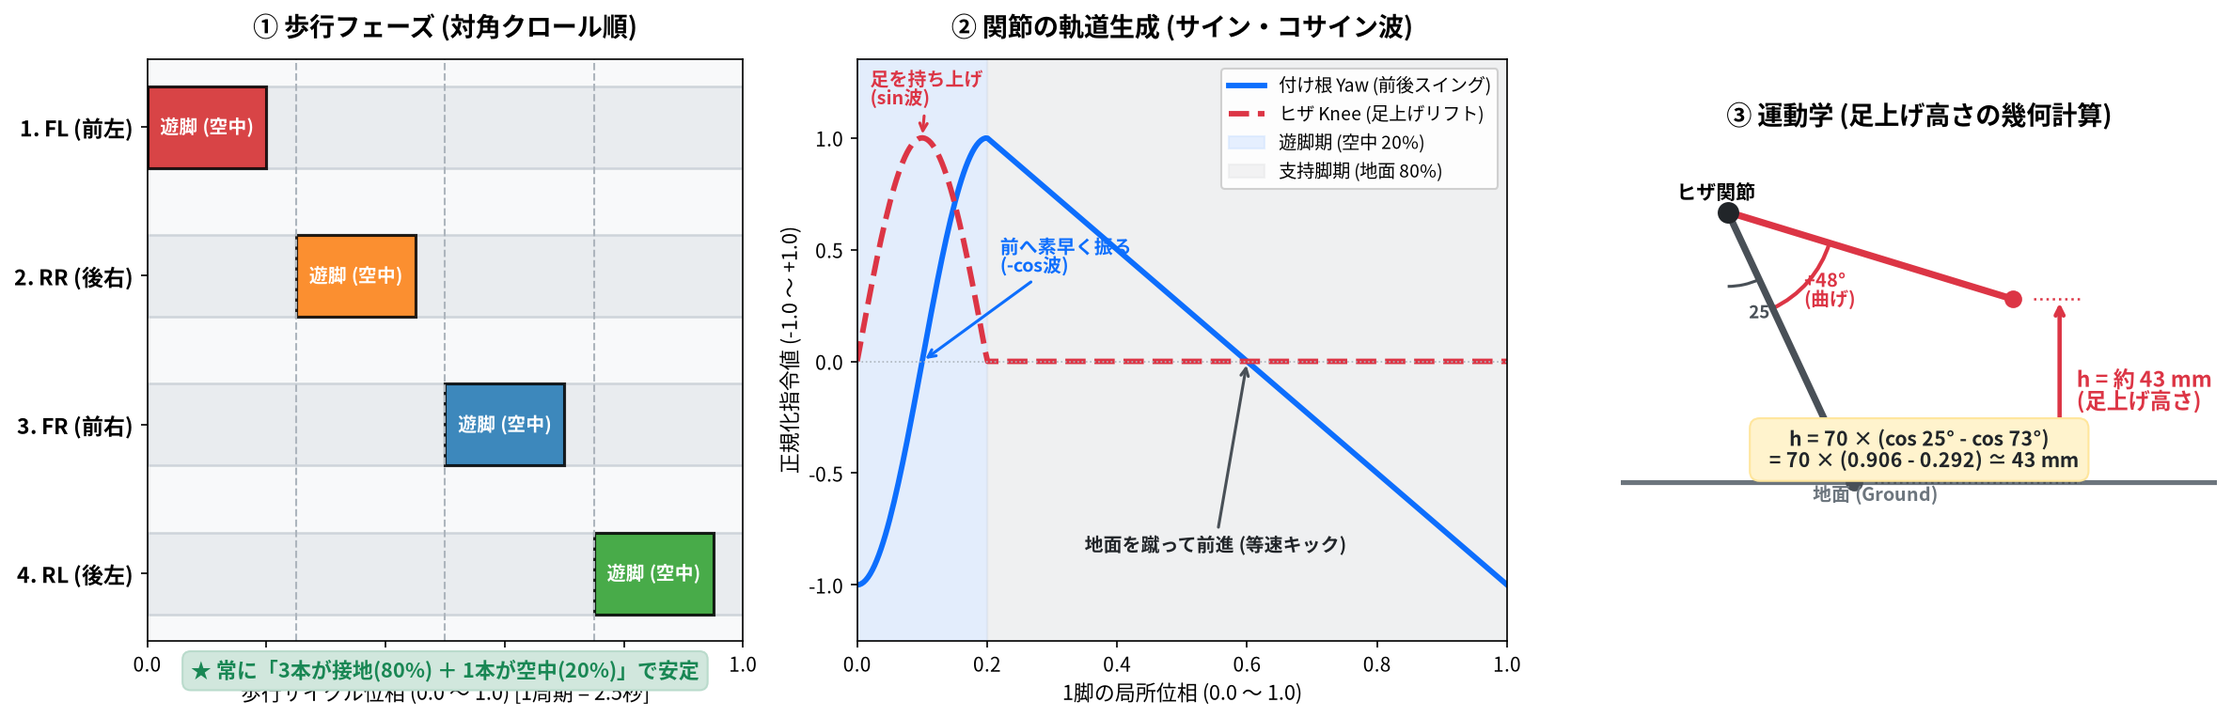
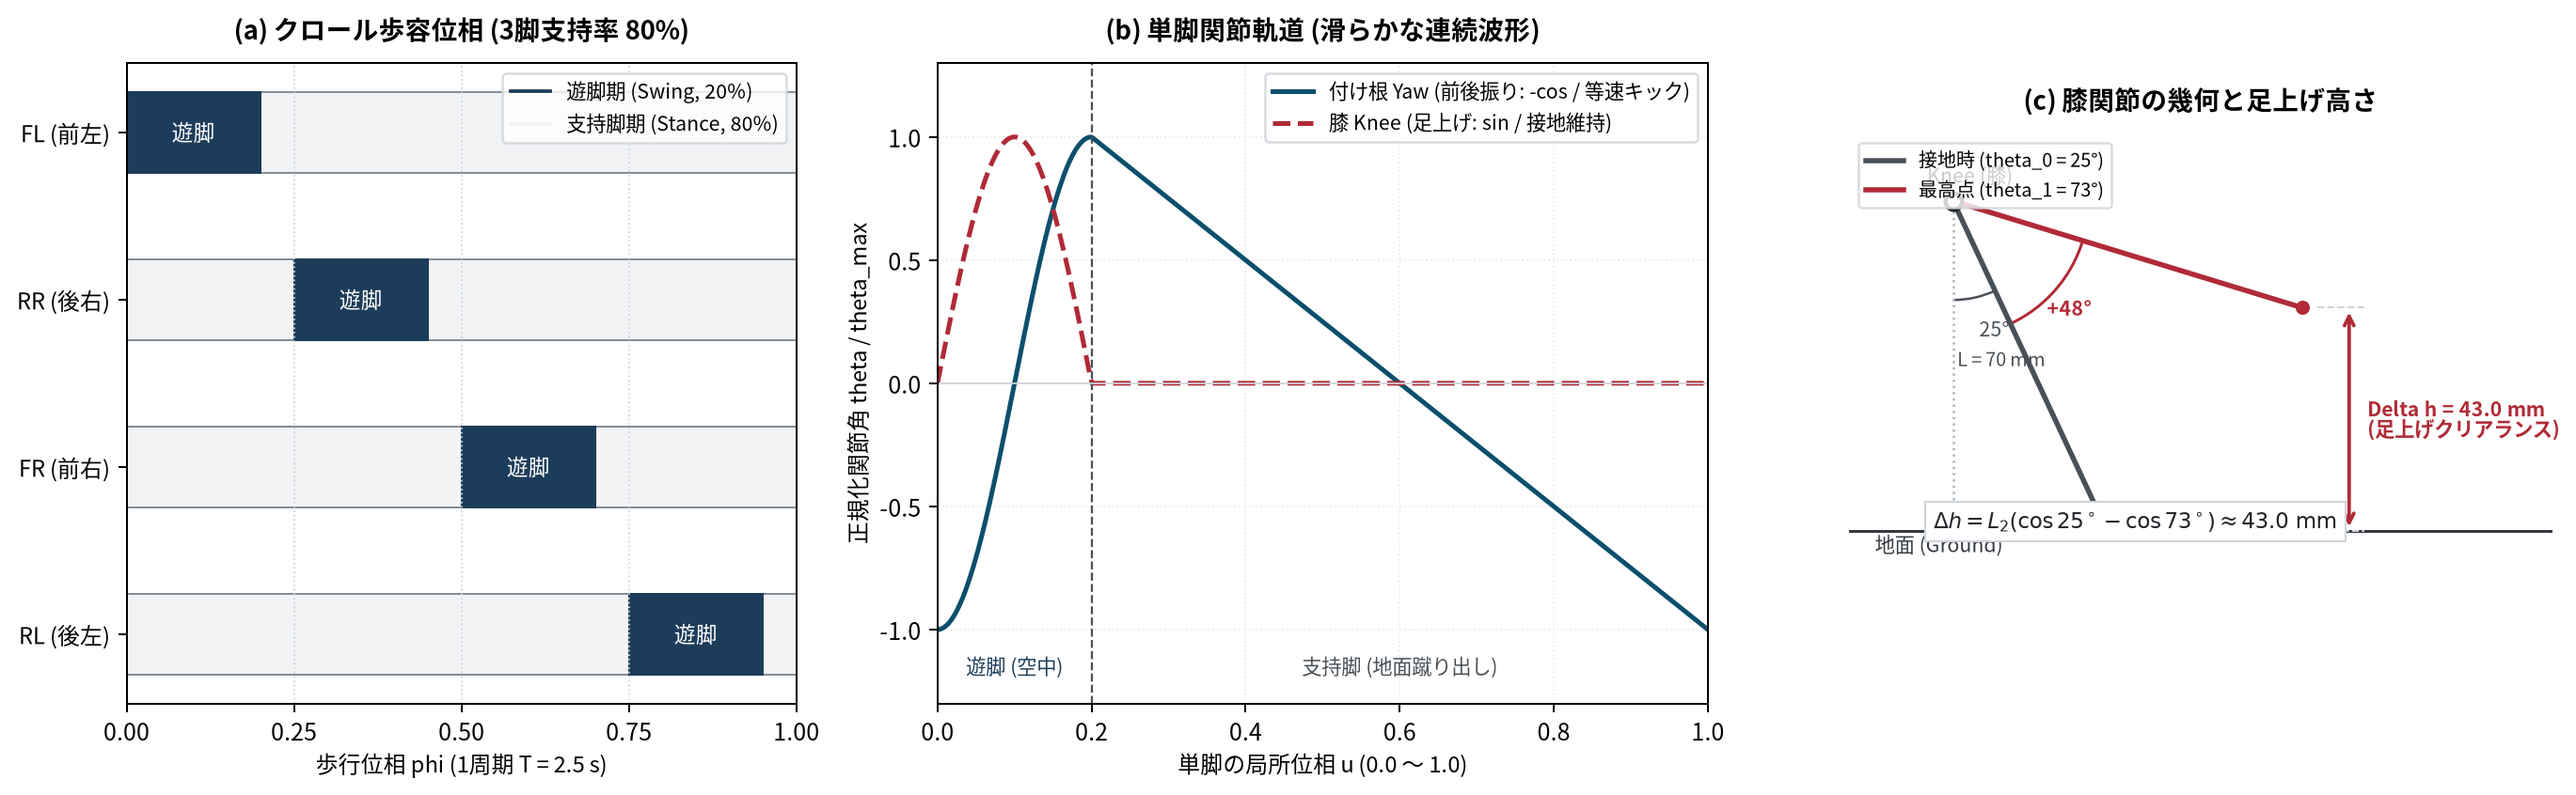
Update gait overview diagram with formal academic design

diff --git a/sim/plot_gait_overview.py b/sim/plot_gait_overview.py
@@ -1,5 +1,5 @@
 #!/usr/bin/env python3
-"""スライド用: 歩行フェーズ、関節軌道、足上げ運動学の3分割図を生成するスクリプト。
+"""スライド・論文用: 学術的で端正なデザインの歩容・軌道・運動学概要図。
 出力: docs/gait_overview.png
 """
 import os
@@ -12,54 +12,51 @@ import matplotlib.patches as patches
 # 日本語フォント設定
 plt.rcParams['font.family'] = 'Noto Sans CJK JP'
 plt.rcParams['axes.unicode_minus'] = False
+plt.rcParams['font.size'] = 10
 
-fig, axes = plt.subplots(1, 3, figsize=(16, 5.2), gridspec_kw={'width_ratios': [1.1, 1.2, 1.1]})
+fig, axes = plt.subplots(1, 3, figsize=(15.5, 4.8), gridspec_kw={'width_ratios': [1.0, 1.15, 1.05]})
 fig.patch.set_facecolor('#ffffff')
 
-# 共通カラー
-cols = {"FL": "#d62728", "RR": "#ff7f0e", "FR": "#1f77b4", "RL": "#2ca02c"}
-names = ["FL", "RR", "FR", "RL"]
-offsets = [0.00, 0.25, 0.50, 0.75]  # 遊脚開始フェーズ
-
 # ==============================================================================
-# パネル 1: 歩行フェーズ (脚のタイミングと接地順)
+# (a) 歩行位相シーケンス (対角クロール)
 # ==============================================================================
 ax0 = axes[0]
-ax0.set_facecolor('#f8f9fa')
+ax0.set_facecolor('#ffffff')
+
+names = ["FL (前左)", "RR (後右)", "FR (前右)", "RL (後左)"]
+offsets = [0.00, 0.25, 0.50, 0.75]
 
 for idx, (name, off) in enumerate(zip(names, offsets)):
     y = 3 - idx
-    # 背景 (全域接地 = 薄いグレー)
-    ax0.barh(y, 1.0, left=0.0, height=0.55, color="#e9ecef", edgecolor="#ced4da", lw=1.2)
-    # 遊脚期間 (20% = カラーハイライト)
-    ax0.barh(y, 0.20, left=off, height=0.55, color=cols[name], alpha=0.85, edgecolor="black", lw=1.5,
-             label=f"{name} (空中)" if idx == 0 else "")
-    # ラベル
-    ax0.text(off + 0.10, y, f"遊脚 (空中)", ha="center", va="center", color="white", fontsize=9.5, fontweight="bold")
+    # 支持脚期 (接地 80%) : 薄いグレー
+    ax0.barh(y, 1.0, left=0.0, height=0.48, color="#f1f3f5", edgecolor="#868e96", lw=0.8)
+    # 遊脚期 (空中 20%) : 濃紺
+    ax0.barh(y, 0.20, left=off, height=0.48, color="#1c3d5a", edgecolor="#1c3d5a", lw=0.8)
+    ax0.text(off + 0.10, y, "遊脚", ha="center", va="center", color="#ffffff", fontsize=9)
 
 ax0.set_yticks([3, 2, 1, 0])
-ax0.set_yticklabels(["1. FL (前左)", "2. RR (後右)", "3. FR (前右)", "4. RL (後左)"], fontsize=11, fontweight="bold")
+ax0.set_yticklabels(names, fontsize=9.5)
 ax0.set_xlim(0, 1.0)
-ax0.set_xlabel("歩行サイクル位相 (0.0 〜 1.0) [1周期 = 2.5秒]", fontsize=10.5)
-ax0.set_title("① 歩行フェーズ (対角クロール順)", fontsize=13, fontweight="bold", pad=12)
+ax0.set_xticks([0.0, 0.25, 0.50, 0.75, 1.0])
+ax0.set_xlabel("歩行位相 phi (1周期 T = 2.5 s)", fontsize=9.5)
+ax0.set_title("(a) クロール歩容位相 (3脚支持率 80%)", fontsize=11, fontweight="bold", pad=10)
+ax0.grid(axis="x", ls=":", color="#ced4da", lw=0.7)
 
-# ガイド線
-for p in [0.25, 0.50, 0.75]:
-    ax0.axvline(p, color="#adb5bd", ls="--", lw=1.0)
-ax0.text(0.5, -0.7, "★ 常に「3本が接地(80%) ＋ 1本が空中(20%)」で安定", ha="center", fontsize=10.5,
-         fontweight="bold", color="#198754", bbox=dict(boxstyle="round,pad=0.4", fc="#d1e7dd", ec="#badbcc"))
+# 凡例代わりの注釈
+ax0.plot([], [], color="#1c3d5a", label="遊脚期 (Swing, 20%)")
+ax0.plot([], [], color="#f1f3f5", markeredgecolor="#868e96", label="支持脚期 (Stance, 80%)")
+ax0.legend(loc="upper right", fontsize=8.5, frameon=True, edgecolor="#ced4da")
 
 # ==============================================================================
-# パネル 2: 1歩の関節軌道 (サイン波・コサイン波)
+# (b) 関節角軌道 (1歩の正規化波形)
 # ==============================================================================
 ax1 = axes[1]
-ax1.set_facecolor('#f8f9fa')
+ax1.set_facecolor('#ffffff')
 
-u = np.linspace(0, 1.0, 300)
+u = np.linspace(0, 1.0, 400)
 yaw = np.zeros_like(u)
 lift = np.zeros_like(u)
 
-# 0〜0.2: 遊脚, 0.2〜1.0: 支持脚
 sw = u < 0.20
 s = u[sw] / 0.20
 yaw[sw] = -np.cos(np.pi * s)
@@ -70,94 +67,98 @@ tau = (u[st] - 0.20) / 0.80
 yaw[st] = 1.0 - 2.0 * tau
 lift[st] = 0.0
 
-# プロット
-l1, = ax1.plot(u, yaw, color="#0d6efd", lw=2.8, label="付け根 Yaw (前後スイング)")
-l2, = ax1.plot(u, lift, color="#dc3545", lw=2.8, ls="--", label="ヒザ Knee (足上げリフト)")
+ax1.plot(u, yaw, color="#0b4f6c", lw=2.0, label="付け根 Yaw (前後振り: -cos / 等速キック)")
+ax1.plot(u, lift, color="#b02a37", lw=2.0, ls="--", label="膝 Knee (足上げ: sin / 接地維持)")
 
-# 領域の塗り分け
-ax1.axvspan(0, 0.20, color="#cfe2ff", alpha=0.5, label="遊脚期 (空中 20%)")
-ax1.axvspan(0.20, 1.0, color="#e2e3e5", alpha=0.4, label="支持脚期 (地面 80%)")
+# 境界線
+ax1.axvline(0.20, color="#495057", ls="--", lw=0.9)
+ax1.text(0.10, -1.18, "遊脚 (空中)", ha="center", fontsize=8.5, color="#1c3d5a")
+ax1.text(0.60, -1.18, "支持脚 (地面蹴り出し)", ha="center", fontsize=8.5, color="#495057")
 
-ax1.axhline(0, color="#adb5bd", lw=0.8, ls=":")
+ax1.axhline(0, color="#ced4da", lw=0.7, ls="-")
 ax1.set_xlim(0, 1.0)
-ax1.set_ylim(-1.25, 1.35)
-ax1.set_xlabel("1脚の局所位相 (0.0 〜 1.0)", fontsize=10.5)
-ax1.set_ylabel("正規化指令値 (-1.0 〜 +1.0)", fontsize=10.5)
-ax1.set_title("② 関節の軌道生成 (サイン・コサイン波)", fontsize=13, fontweight="bold", pad=12)
-ax1.legend(loc="upper right", fontsize=9.2, framealpha=0.9)
-
-ax1.annotate("足を持ち上げ\n(sin波)", xy=(0.10, 1.0), xytext=(0.02, 1.15),
-             arrowprops=dict(arrowstyle="->", color="#dc3545", lw=1.5), fontsize=9.5, fontweight="bold", color="#dc3545")
-ax1.annotate("前へ素早く振る\n(-cos波)", xy=(0.10, 0.0), xytext=(0.22, 0.4),
-             arrowprops=dict(arrowstyle="->", color="#0d6efd", lw=1.5), fontsize=9.5, fontweight="bold", color="#0d6efd")
-ax1.annotate("地面を蹴って前進 (等速キック)", xy=(0.60, 0.0), xytext=(0.35, -0.85),
-             arrowprops=dict(arrowstyle="->", color="#495057", lw=1.5), fontsize=9.5, fontweight="bold", color="#212529")
+ax1.set_ylim(-1.3, 1.3)
+ax1.set_xticks([0.0, 0.2, 0.4, 0.6, 0.8, 1.0])
+ax1.set_xlabel("単脚の局所位相 u (0.0 〜 1.0)", fontsize=9.5)
+ax1.set_ylabel("正規化関節角 theta / theta_max", fontsize=9.5)
+ax1.set_title("(b) 単脚関節軌道 (滑らかな連続波形)", fontsize=11, fontweight="bold", pad=10)
+ax1.legend(loc="upper right", fontsize=8.5, frameon=True, edgecolor="#ced4da")
+ax1.grid(True, ls=":", color="#e9ecef", lw=0.7)
 
 # ==============================================================================
-# パネル 3: 運動学幾何図 (足上げ高さの計算)
+# (c) リンク運動学 (足先クリアランス幾何)
 # ==============================================================================
 ax2 = axes[2]
-ax2.set_facecolor('#f8f9fa')
+ax2.set_facecolor('#ffffff')
 
-L2 = 70.0  # スネ長 mm
-th_ground = 25.0   # 接地角 deg
-th_lift = 73.0     # 最高点角 deg (25 + 48)
+L2 = 70.0        # スネ長 mm
+th0 = 25.0       # 接地時開き角 deg
+d_th = 48.0      # リフト角 deg
+th1 = th0 + d_th # 最高点角 73 deg
 
-# 膝関節を原点とする
-knee_x, knee_y = 0.0, 75.0
+knee = np.array([0.0, 75.0])
 
-# 接地脚の足先 (25°)
-rad_g = np.radians(th_ground)
-foot_g_x = knee_x + L2 * np.sin(rad_g)
-foot_g_y = knee_y - L2 * np.cos(rad_g)
+# 接地足先 (25°)
+rad0 = np.radians(th0)
+foot0 = knee + np.array([L2 * np.sin(rad0), -L2 * np.cos(rad0)])
 
-# 最高点の足先 (73°)
-rad_l = np.radians(th_lift)
-foot_l_x = knee_x + L2 * np.sin(rad_l)
-foot_l_y = knee_y - L2 * np.cos(rad_l)
+# 最高点足先 (73°)
+rad1 = np.radians(th1)
+foot1 = knee + np.array([L2 * np.sin(rad1), -L2 * np.cos(rad1)])
 
-lift_h = foot_l_y - foot_g_y  # 42.97 mm
+dh = foot1[1] - foot0[1]  # 42.97 mm
 
-# 地面ライン
-ax2.axhline(foot_g_y, color="#6c757d", lw=2.5, ls="-")
-ax2.text(20, foot_g_y - 4.5, "地面 (Ground)", fontsize=9.5, color="#6c757d", fontweight="bold")
+# 地面
+ground_y = foot0[1]
+ax2.axhline(ground_y, color="#343a40", lw=1.2)
+ax2.text(-15, ground_y - 4.0, "地面 (Ground)", fontsize=8.5, color="#343a40")
 
-# スネの描画
-ax2.plot([knee_x, foot_g_x], [knee_y, foot_g_y], color="#495057", lw=3.5, label="接地時 (25°)")
-ax2.plot([knee_x, foot_l_x], [knee_y, foot_l_y], color="#dc3545", lw=3.5, label="最高点 (73°: +48°リフト)")
-ax2.plot(knee_x, knee_y, "o", color="#212529", ms=10)
-ax2.text(knee_x - 12, knee_y + 3, "ヒザ関節", fontsize=10, fontweight="bold")
-ax2.plot(foot_g_x, foot_g_y, "o", color="#495057", ms=8)
-ax2.plot(foot_l_x, foot_l_y, "o", color="#dc3545", ms=8)
+# 基準鉛直線
+ax2.plot([knee[0], knee[0]], [ground_y, knee[1]], color="#adb5bd", ls=":", lw=1.0)
+
+# リンク (スネ)
+ax2.plot([knee[0], foot0[0]], [knee[1], foot0[1]], color="#495057", lw=2.2, label=f"接地時 (theta_0 = {th0:.0f}°)")
+ax2.plot([knee[0], foot1[0]], [knee[1], foot1[1]], color="#b02a37", lw=2.2, label=f"最高点 (theta_1 = {th1:.0f}°)")
+
+# 関節シンボル
+ax2.plot(knee[0], knee[1], "o", color="#ffffff", markeredgecolor="#212529", markeredgewidth=1.8, ms=7)
+ax2.text(knee[0] - 5, knee[1] + 3.5, "Knee (膝)", fontsize=8.5)
+ax2.plot(foot0[0], foot0[1], "o", color="#495057", ms=5)
+ax2.plot(foot1[0], foot1[1], "o", color="#b02a37", ms=5)
 
 # 角度円弧
-arc_g = patches.Arc((knee_x, knee_y), 35, 35, angle=270, theta1=0, theta2=th_ground, color="#495057", lw=1.5)
-arc_l = patches.Arc((knee_x, knee_y), 50, 50, angle=270, theta1=th_ground, theta2=th_lift, color="#dc3545", lw=2.0)
-ax2.add_patch(arc_g); ax2.add_patch(arc_l)
-ax2.text(knee_x + 5, knee_y - 25, "25°", fontsize=9, color="#495057", fontweight="bold")
-ax2.text(knee_x + 18, knee_y - 22, "+48°\n(曲げ)", fontsize=9.5, color="#dc3545", fontweight="bold")
+arc0 = patches.Arc(knee, 38, 38, angle=270, theta1=0, theta2=th0, color="#495057", lw=1.0)
+arc1 = patches.Arc(knee, 52, 52, angle=270, theta1=th0, theta2=th1, color="#b02a37", lw=1.2)
+ax2.add_patch(arc0); ax2.add_patch(arc1)
+ax2.text(knee[0] + 5, knee[1] - 26, f"{th0:.0f}°", fontsize=8.5, color="#495057")
+ax2.text(knee[0] + 18, knee[1] - 22, f"+{d_th:.0f}°", fontsize=8.5, color="#b02a37", fontweight="bold")
+
+# スネ長さ注記
+mid0 = (knee + foot0) / 2
+ax2.text(mid0[0] - 14, mid0[1], f"L = {L2:.0f} mm", fontsize=8.0, color="#495057")
 
 # 高さの寸法線
-dim_x = 78.0
-ax2.plot([foot_l_x + 5, dim_x + 5], [foot_l_y, foot_l_y], color="#dc3545", ls=":", lw=1.2)
-ax2.plot([foot_g_x + 5, dim_x + 5], [foot_g_y, foot_g_y], color="#495057", ls=":", lw=1.2)
-ax2.annotate("", xy=(dim_x, foot_l_y), xytext=(dim_x, foot_g_y),
-             arrowprops=dict(arrowstyle="<->", color="#dc3545", lw=2.2))
-ax2.text(dim_x + 4, (foot_l_y + foot_g_y) / 2, f"h = 約 43 mm\n(足上げ高さ)", color="#dc3545",
-         va="center", fontsize=11, fontweight="bold")
+dim_x = 76.0
+ax2.plot([foot1[0] + 3, dim_x + 3], [foot1[1], foot1[1]], color="#ced4da", ls="--", lw=0.8)
+ax2.plot([foot0[0] + 3, dim_x + 3], [foot0[1], foot0[1]], color="#ced4da", ls="--", lw=0.8)
+ax2.annotate("", xy=(dim_x, foot1[1]), xytext=(dim_x, foot0[1]),
+             arrowprops=dict(arrowstyle="<->", color="#b02a37", lw=1.5))
+ax2.text(dim_x + 3.5, (foot1[1] + foot0[1]) / 2, f"Delta h = {dh:.1f} mm\n(足上げクリアランス)",
+         color="#b02a37", va="center", fontsize=8.5, fontweight="bold")
 
-ax2.set_xlim(-25, 115)
-ax2.set_ylim(-5, 90)
+# 幾何式 (端正な数式表記)
+calc_eq = r"$\Delta h = L_2 (\cos 25^\circ - \cos 73^\circ) \approx 43.0\ \mathrm{mm}$"
+ax2.text(35, 12, calc_eq, ha="center", fontsize=9.0, color="#212529",
+         bbox=dict(boxstyle="square,pad=0.4", fc="#ffffff", ec="#ced4da", lw=0.8))
+
+ax2.set_xlim(-20, 115)
+ax2.set_ylim(-8, 88)
 ax2.set_aspect("equal")
 ax2.axis("off")
-ax2.set_title("③ 運動学 (足上げ高さの幾何計算)", fontsize=13, fontweight="bold", pad=12)
-
-# 計算式ボックス
-calc_text = "h = 70 × (cos 25° - cos 73°)\n  = 70 × (0.906 - 0.292) ≃ 43 mm"
-ax2.text(45, 15, calc_text, ha="center", fontsize=10.2, fontweight="bold",
-         color="#212529", bbox=dict(boxstyle="round,pad=0.5", fc="#fff3cd", ec="#ffe69c"))
+ax2.set_title("(c) 膝関節の幾何と足上げ高さ", fontsize=11, fontweight="bold", pad=10)
+ax2.legend(loc="upper left", fontsize=8.0, frameon=True, edgecolor="#ced4da")
 
 plt.tight_layout()
 out_path = os.path.join(os.path.dirname(os.path.dirname(os.path.abspath(__file__))), "docs", "gait_overview.png")
-plt.savefig(out_path, dpi=150, bbox_inches="tight")
+plt.savefig(out_path, dpi=180, bbox_inches="tight")
 print(f"Saved: {out_path}")
